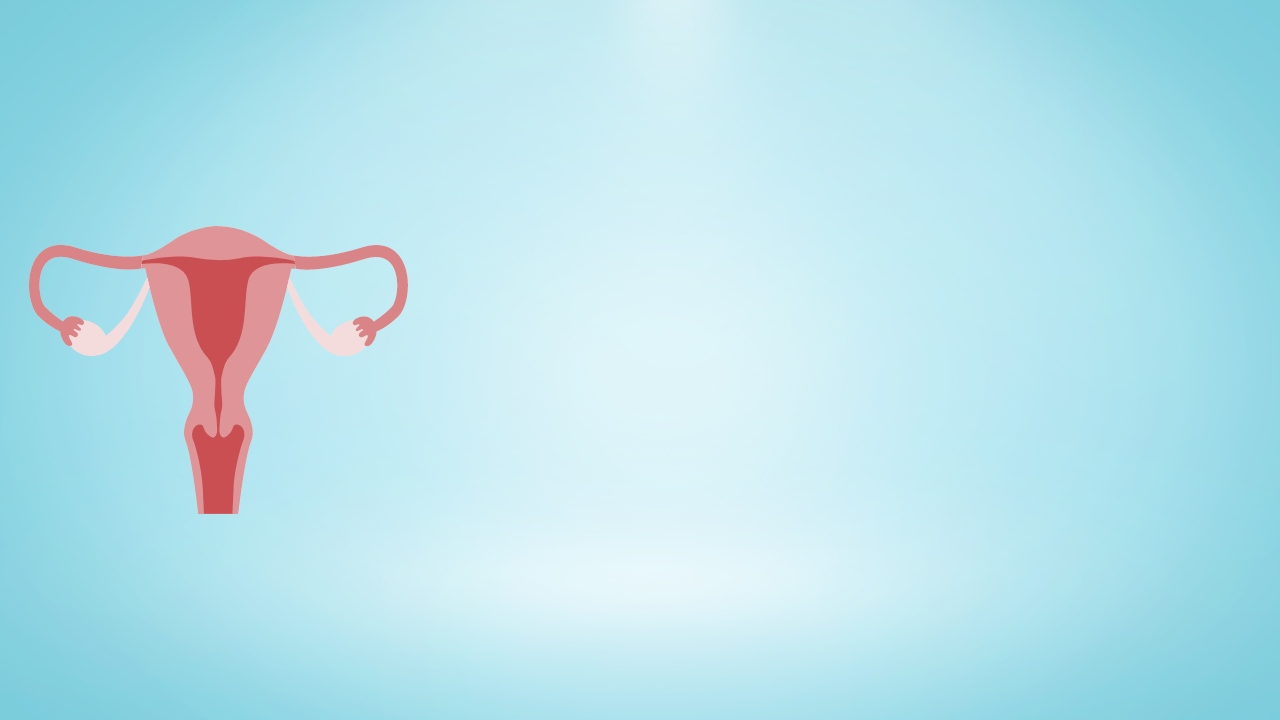
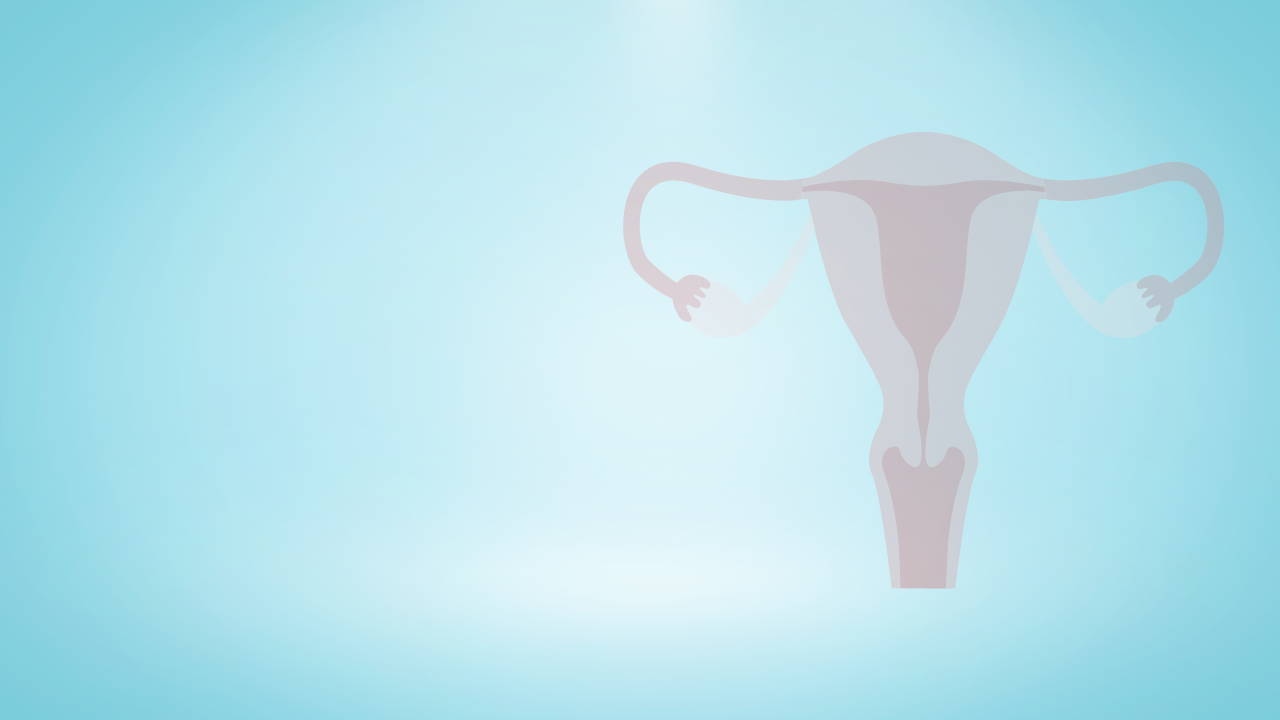
Melhoria de layout

Changed region(s): [[0.4688, 0.1833, 0.9688, 0.825], [0.0312, 0.3056, 0.3438, 0.7333], [0.0, 0.3667, 0.0312, 0.4278]]

diff --git a/index.html b/index.html
@@ -57,7 +57,7 @@
     </nav>
     <nav class="navbar navbar-expand-lg navbar-lower navbar-dark bg-dark sticky-top mt-3" id="mainNav">
         <div class="container px-4">
-            <a class="navbar-brand" href="#page-top">Dra. Clara Maria<br>Coelho de Carvalho</a>
+            <a class="navbar-brand" href="#page-top">Dra. Clara Maria Carvalho</a>
             <button class="navbar-toggler" type="button" data-bs-toggle="collapse" data-bs-target="#navbarResponsive"
                 aria-controls="navbarResponsive" aria-expanded="false" aria-label="Toggle navigation"><span
                     class="navbar-toggler-icon"></span></button>
@@ -73,38 +73,40 @@
     <!-- Header-->
     <header>
         <div id="carouselExampleIndicators" class="carousel slide carousel-fade" data-bs-interval="false">
-            <div class="carousel-indicators">
+            <!-- <div class="carousel-indicators">
                 <button type="button" data-bs-target="#carouselExampleIndicators" data-bs-slide-to="0" class="active"
                     aria-current="true" aria-label="Slide 1"></button>
                 <button type="button" data-bs-target="#carouselExampleIndicators" data-bs-slide-to="1"
                     aria-label="Slide 2"></button>
-            </div>
+            </div> -->
             <div class="carousel-inner">
                 <div class="carousel-item active">
-                    <!-- <img src="assets/barriga-gravida.jpg" class="d-block w-100 carousel-img-background"
-                        alt="Barriga de Mulher Grávida"> -->
                     <img src="assets/background-banner.png" class="d-block w-100 carousel-img-background"
                         alt="Barriga de Mulher Grávida">
                     <div class="carousel-caption carousel-caption-a">
-                        <h2 class="mb-4">CLÍNICA GINECOLÓGICA E DE OBSTETRÍCIA</h2>
+                        <h2 class="mb-4">Ginecologia e Saúde Procriativa</h2>
+                        <p class="h5-md">Minha missão é proporcionar avaliação, seguimento e conduta em ginecologia, obstetrícia e
+                            Reprodução Humana Assistida pautada no conhecimento científico atualizado, na experiência
+                            clínica adquirida e renovada. É através do tratamento eficaz, diferenciado, individualizado
+                            e humanizado das pacientes que eu me realizo.</p>
                         <a class="btn btn-primary" href="https://api.whatsapp.com/send?phone=YOUR_PHONE_NUMBER&text=Bom%20dia!" target="_blank">
                             AGENDE AGORA A SUA TELECONSULTA
                         </a>
                     </div>
                 </div>
-                <div class="carousel-item">
+                <!-- <div class="carousel-item">
                     <img src="assets/background-banner.png" class="d-block w-100 carousel-img-background"
                         alt="Barriga de Mulher Grávida">
                     <div class="carousel-caption">
                         <h2 class="mb-4">SEJA BEM VINDA</h2>
-                        <p class="h5">Minha missão é proporcionar avaliação, seguimento e conduta em ginecologia, obstetrícia e
+                        <p class="h5-md">Minha missão é proporcionar avaliação, seguimento e conduta em ginecologia, obstetrícia e
                             Reprodução Humana Assistida pautada no conhecimento científico atualizado, na experiência
                             clínica adquirida e renovada. É através do tratamento eficaz, diferenciado, individualizado
                             e humanizado das pacientes que eu me realizo.</p>
                     </div>
-                </div>
+                </div> -->
             </div>
-            <button class="carousel-control-prev" type="button" data-bs-target="#carouselExampleIndicators"
+            <!-- <button class="carousel-control-prev" type="button" data-bs-target="#carouselExampleIndicators"
                 data-bs-slide="prev">
                 <span class="carousel-control-prev-icon" aria-hidden="true"></span>
                 <span class="visually-hidden">Previous</span>
@@ -113,7 +115,7 @@
                 data-bs-slide="next">
                 <span class="carousel-control-next-icon" aria-hidden="true"></span>
                 <span class="visually-hidden">Next</span>
-            </button>
+            </button> -->
         </div>
     </header>
     <!-- About section-->

diff --git a/css/header.css b/css/header.css
@@ -4,7 +4,7 @@ header {
 
 .carousel-img-background {
     object-fit: cover;
-    height: 400px;
+    height: 500px;
 }
 
 .carousel-caption {
@@ -14,7 +14,7 @@ header {
 }
 
 .carousel-caption-a {
-    margin-bottom: 80px;
+    /* margin-bottom: -50px; */
 }
 
 @media only screen and (min-width: 769px) {
